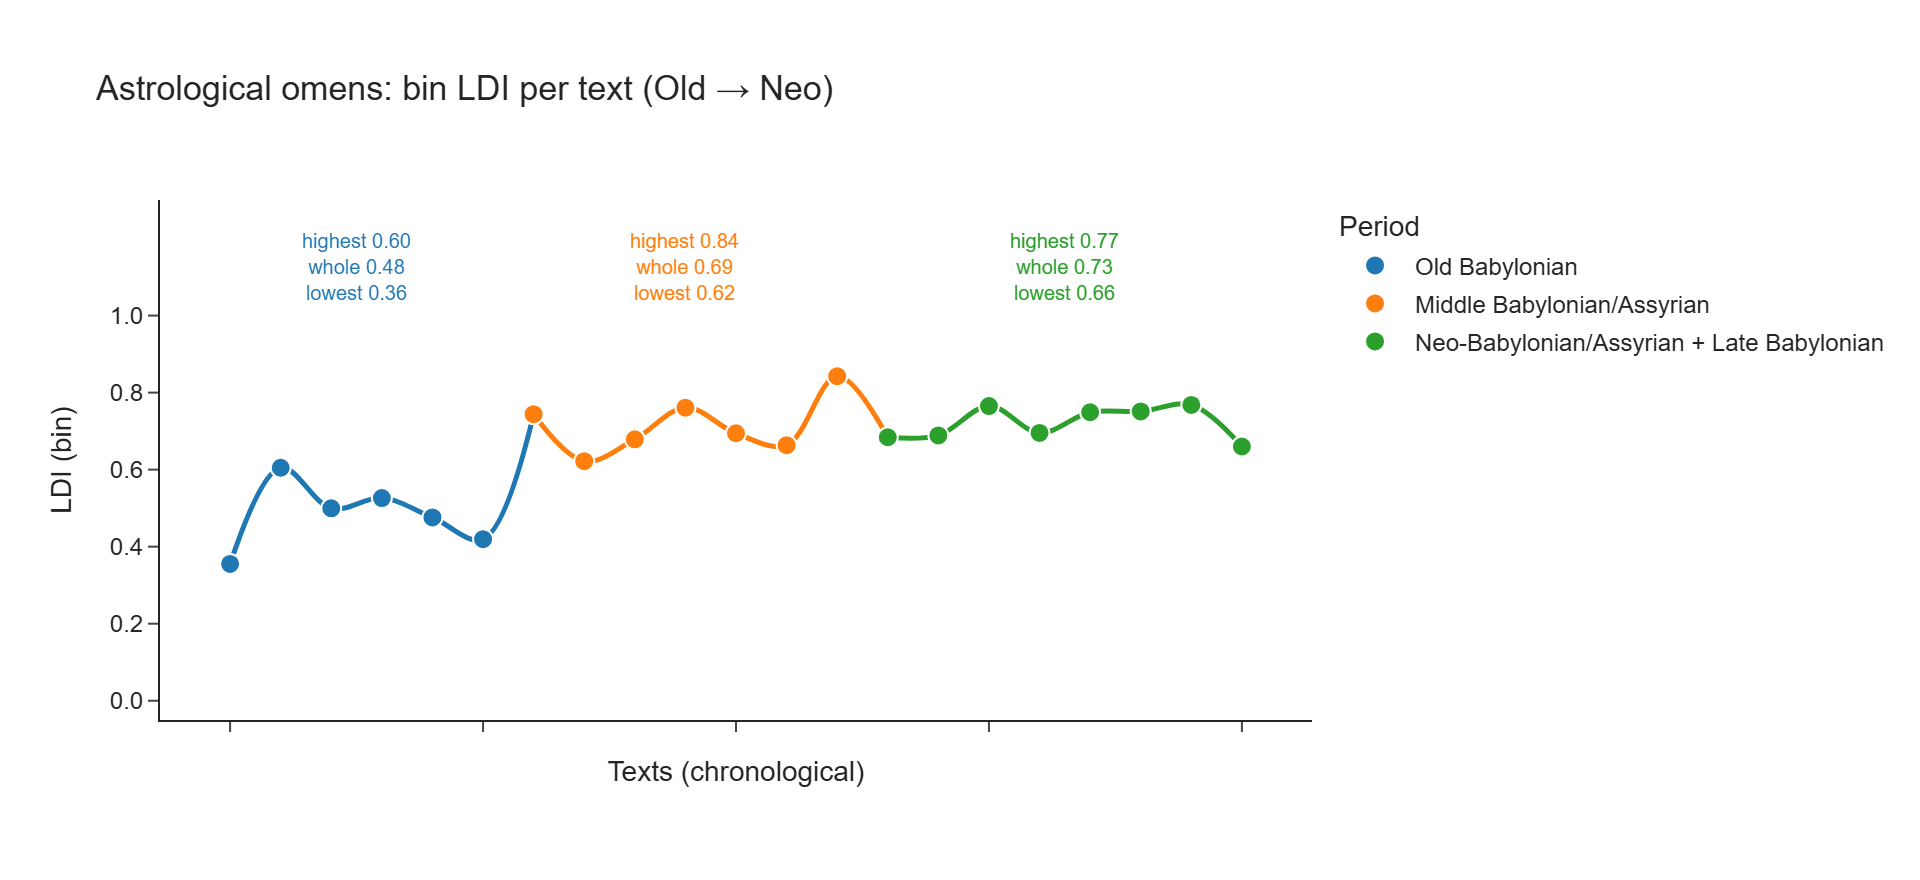
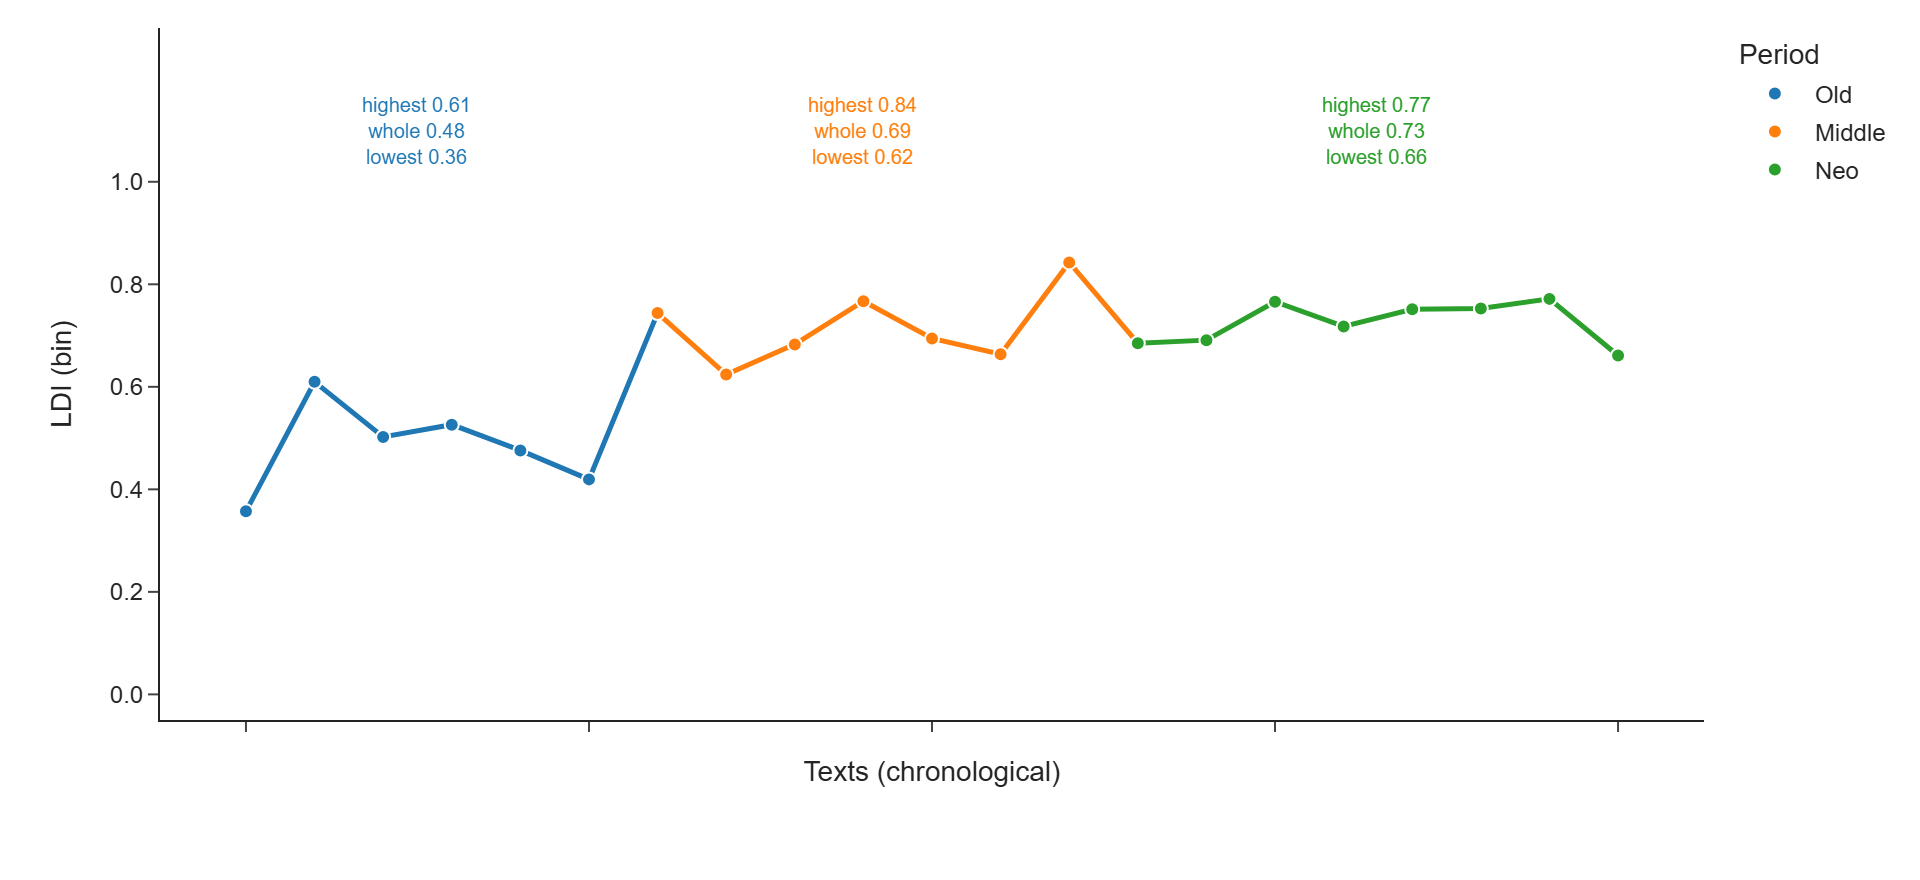
feat(figures): restyle and regenerate the article figures
Per-text charts now colour by period (Old / Middle / Neo) rather than by a
single accent, use the short period names in the legend, and drop the chart
title, which the figure caption already carries. Markers are smaller, lines
are straight rather than splines, and the obverse/reverse boundary is drawn
where a text records one (suppressed when the side is Unspecified).

Line numbers are labelled on the x axis, thinned past 40 points to about 25
labels with the first and last always shown — before, a long text such as
VAT 10418 showed no tick labels at all.

Two assets are dropped: lung-models-ldi.png and trend-naplastu-bin.png, both
superseded (the naplastu figure is now plotted per omen, not per text).

diff --git a/scripts/make_figures.py b/scripts/make_figures.py
@@ -1,7 +1,7 @@
 # -*- coding: utf-8 -*-
 """Regenerate the article's 18 figures from the corpus (assets/*.png).
 
-Mirrors the app's chart style (Plotly, simple_white, Arial, spline lines) and
+Mirrors the app's chart style (Plotly, simple_white, Arial, straight lines) and
 compute_ratios' canonical LDI (determinatives excluded, particles + 15/150/30
 counted, Sumerian held out, paratext stripped). Chart types:
 
@@ -28,9 +28,12 @@ DATA = os.path.join(BASE, "data")
 OUT = os.path.join(BASE, "assets")
 
 PERIODS = ["Old Period", "Middle Period", "Neo Period"]
-PERIOD_DISP = {"Old Period": "Old Babylonian",
-               "Middle Period": "Middle Babylonian/Assyrian",
-               "Neo Period": "Neo-Babylonian/Assyrian + Late Babylonian"}
+# Axis and legend labels: the article's own three-period names (Table 1 and every
+# table after it read "Old / Middle / Neo"), not the full edition labels the
+# corpus files carry.
+PERIOD_DISP = {"Old Period": "Old",
+               "Middle Period": "Middle",
+               "Neo Period": "Neo"}
 PERIOD_COLOR = {"Old Period": "#1f77b4", "Middle Period": "#ff7f0e",
                 "Neo Period": "#2ca02c"}
 MEASURE_COLOR = {"bin": "#1f77b4", "macro": "#ff7f0e", "micro": "#2ca02c"}
@@ -122,7 +125,7 @@ def period_scatter(stats, whole_of, title, xtitle, marker_size):
             nxt = stats[stats["period"] == here[i + 1]].iloc[0]
             lx.append(nxt["seq"]); ly.append(nxt["bin"])
         fig.add_trace(go.Scatter(x=lx, y=ly, mode="lines", showlegend=False, hoverinfo="skip",
-                                 line=dict(width=2.5, shape="spline", smoothing=1.0,
+                                 line=dict(width=2.5,
                                            color=PERIOD_COLOR[period])))
         fig.add_trace(go.Scatter(x=sub["seq"], y=sub["bin"], mode="markers",
                                  name=PERIOD_DISP[period],
@@ -130,7 +133,10 @@ def period_scatter(stats, whole_of, title, xtitle, marker_size):
                                              line=dict(width=1, color="white"))))
     annotate_periods(fig, stats, whole_of)
     fig.update_layout(
-        title=title, xaxis_title=xtitle, yaxis_title="LDI (bin)",
+        # No chart title: the figure is placed under its caption in the article,
+        # which already names it. `title` is kept in the signature because it
+        # documents each figure at its call site.
+        margin=dict(t=14), xaxis_title=xtitle, yaxis_title="LDI (bin)",
         yaxis=dict(range=[-0.05, 1.30], tickmode="array",
                    tickvals=[0, 0.2, 0.4, 0.6, 0.8, 1.0], tickformat=".1f"),
         xaxis=dict(showticklabels=False), width=960, height=440,
@@ -158,9 +164,8 @@ def fig_general_trend():
     fig = go.Figure()
     for m in ("bin", "macro", "micro"):
         fig.add_trace(go.Scatter(x=cdf["period"], y=cdf[m], mode="lines+markers", name=m,
-                                 line=dict(width=3, color=MEASURE_COLOR[m],
-                                           shape="spline", smoothing=1.3),
-                                 marker=dict(size=10)))
+                                 line=dict(width=3, color=MEASURE_COLOR[m]),
+                                 marker=dict(size=7)))
     fig.update_layout(margin=dict(t=14), xaxis_title="Period", yaxis_title="LDI",
                       yaxis=dict(range=[-0.05, 1.05], dtick=0.1, tickformat=".1f", showgrid=True),
                       width=960, height=460, legend_title_text="Measure", **LAYOUT)
@@ -184,8 +189,8 @@ def fig_genre(metric):
     trend = pd.DataFrame(rows)
     fig = px.line(trend, x="period", y=metric, color="discipline", markers=True,
                   category_orders={"period": [PERIOD_DISP[p] for p in PERIODS]},
-                  line_shape="spline", template="simple_white")
-    fig.update_traces(line=dict(width=3, shape="spline", smoothing=1.0), marker=dict(size=11))
+                  line_shape='linear', template="simple_white")
+    fig.update_traces(line=dict(width=3), marker=dict(size=7.5))
     fig.update_layout(margin=dict(t=14), font_family="Arial", xaxis_title="Period",
                       yaxis_title=f"LDI ({metric})",
                       yaxis=dict(range=[-0.05, 1.05], dtick=0.1, tickformat=".1f", showgrid=True),
@@ -199,7 +204,7 @@ def fig_discipline_per_text(genre, name, label):
     stats = per_text_bin(sub)
     fig = period_scatter(stats, lambda p: pooled_bin(sub[sub["period"] == p]),
                          f"{label}: bin LDI per text (Old → Neo)",
-                         "Texts (chronological)", 10)
+                         "Texts (chronological)", 7)
     write(fig, name)
 
 
@@ -212,7 +217,7 @@ def fig_topic_per_text(files, name, label, independent=()):
     stats = per_text_bin(sub)
     fig = period_scatter(stats, lambda p: pooled_bin(sub[sub["period"] == p]),
                          f"{label}: bin LDI per text (Old → Neo)",
-                         "Texts (chronological)", 12)
+                         "Texts (chronological)", 8)
     if independent:
         ind = WORDS[WORDS["filename"].isin(independent)]
         ib = per_text_bin(ind)
@@ -221,7 +226,7 @@ def fig_topic_per_text(files, name, label, independent=()):
             mode="markers+text", name="excluded (independent)",
             text=[f.replace(".txt", "").replace(".", " ") for f in ib["filename"]],
             textposition="top center", textfont=dict(size=10, color="#666"),
-            marker=dict(size=12, color="#9e9e9e", symbol="diamond",
+            marker=dict(size=8, color="#9e9e9e", symbol="diamond",
                         line=dict(width=1, color="white"))))
     write(fig, name)
 
@@ -233,31 +238,70 @@ def fig_topic_per_omen(files, name, label):
     stats = stats.copy()
     fig = period_scatter(stats, lambda p: pooled_bin(sub[sub["period"] == p]),
                          f"{label}: bin LDI per omen (Old → Neo)",
-                         "Omens (chronological)", 8)
+                         "Omens (chronological)", 6)
     write(fig, name)
 
 
 def fig_single_text(fname, name, label):
-    """Figures 6-9, 15: one node per omen of a single tablet."""
+    """Figures 6-9, 15: one node per omen of a single tablet.
+
+    Mirrors the app's Text tab (app.per_omen_figure): the tablet's PERIOD colour
+    (not a fixed blue), the edition's own line numbers on the x axis, thinned
+    beyond 40 omens, and a dashed marker where the tablet changes side."""
     sub = WORDS[WORDS["filename"] == fname]
     o = per_omen_bin(sub)
     o["seq"] = range(len(o))
     whole = pooled_bin(sub)
+    period = str(o["period"].iloc[0]) if len(o) else "Old Period"
+    col = PERIOD_COLOR.get(period, "#1f77b4")
+
+    # line number and section per omen, in reading order
+    s = lp(sub)
+    meta = s.groupby("omen_id").agg(order=("__row", "min"),
+                                    section=("section", "first")).reset_index()
+    meta = meta.sort_values("order")
+    o = o.merge(meta[["omen_id", "section"]], on="omen_id", how="left")
+
     fig = go.Figure(go.Scatter(
         x=o["seq"], y=o["bin"], mode="lines+markers",
-        line=dict(width=2, color="#1f77b4"),
-        marker=dict(size=10, color="#1f77b4", line=dict(width=1, color="white")),
+        line=dict(width=2, color=col),
+        marker=dict(size=7, color=col, line=dict(width=1, color="white")),
         showlegend=False))
-    fig.add_annotation(x=float(o["seq"].mean()), y=1.02, xref="x", yref="y",
+    # Top-left in PAPER coordinates, so it cannot collide with the section labels
+    # that sit above the curve at their own x.
+    fig.add_annotation(x=0.01, y=0.99, xref="paper", yref="paper",
                        text=f"highest {o['bin'].max():.2f}<br>whole {whole:.2f}"
                             f"<br>lowest {o['bin'].min():.2f}",
-                       showarrow=False, yanchor="bottom", align="center",
-                       font=dict(size=10, color="#1f77b4"))
-    fig.update_layout(title=f"{label}: bin LDI per omen",
+                       showarrow=False, xanchor="left", yanchor="top", align="left",
+                       font=dict(size=10, color=col))
+    # "Unspecified" is the loader's placeholder for text before any @section
+    # marker, not a side of the tablet: no boundary is drawn against it.
+    sec = o["section"].fillna("").replace("Unspecified", "")
+    for i in range(1, len(o)):
+        if sec.iloc[i] and sec.iloc[i - 1] and sec.iloc[i] != sec.iloc[i - 1]:
+            x = (o["seq"].iloc[i] + o["seq"].iloc[i - 1]) / 2
+            fig.add_vline(x=x, line=dict(color="#BDBDBD", width=1, dash="dash"))
+            fig.add_annotation(x=x, y=1.18, xref="x", yref="y",
+                               text=str(sec.iloc[i]), showarrow=False,
+                               yanchor="bottom", font=dict(size=9, color="#9E9E9E"))
+    n = len(o)
+    if n <= 40:
+        pick = list(range(n))
+    else:
+        step = (n + 24) // 25
+        pick = list(range(0, n, step))
+        if pick[-1] != n - 1:
+            pick.append(n - 1)
+    fig.update_layout(margin=dict(t=14),   # no title: the article's caption names it
                       xaxis_title="Omen (in text order)", yaxis_title="LDI (bin)",
                       yaxis=dict(range=[-0.05, 1.30], tickmode="array",
                                  tickvals=[0, 0.2, 0.4, 0.6, 0.8, 1.0], tickformat=".1f"),
-                      xaxis=dict(showticklabels=False), width=960, height=440, **LAYOUT)
+                      xaxis=dict(tickmode="array",
+                                 tickvals=o["seq"].iloc[pick],
+                                 ticktext=o["omen_id"].iloc[pick],
+                                 tickangle=0 if n <= 40 else -45,
+                                 tickfont=dict(size=10 if n <= 40 else 9)),
+                      width=960, height=440, **LAYOUT)
     write(fig, name)
 
 
